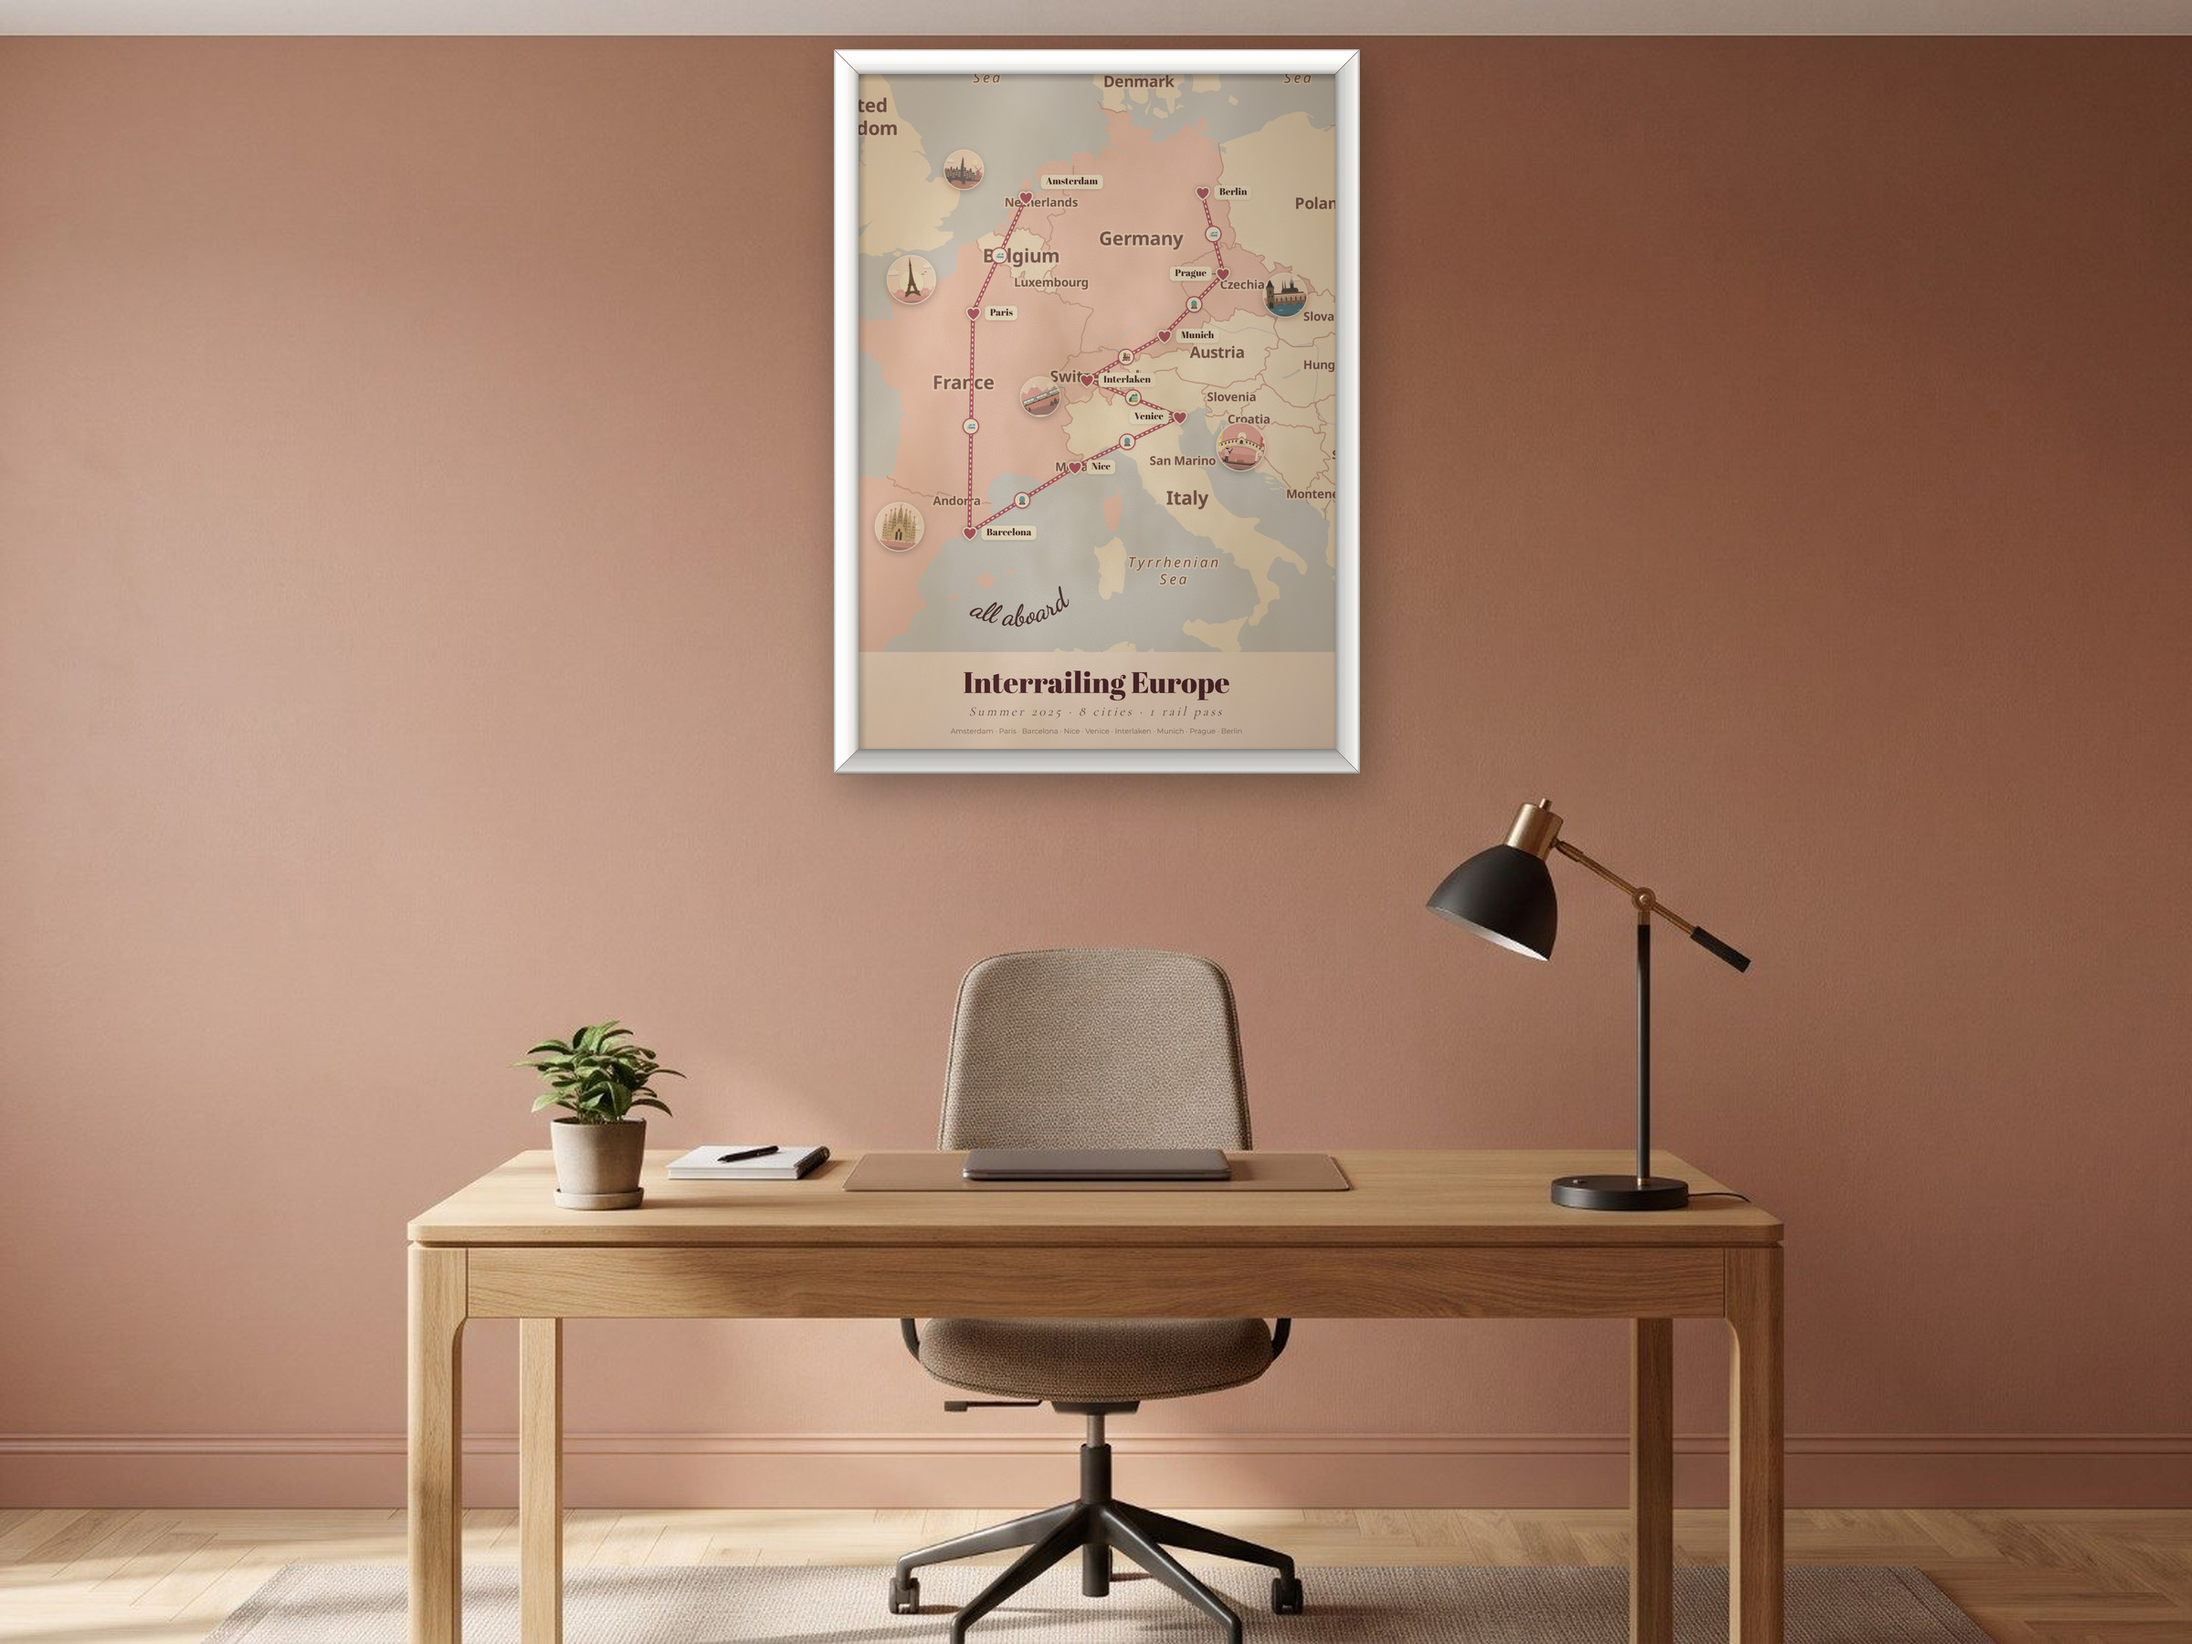
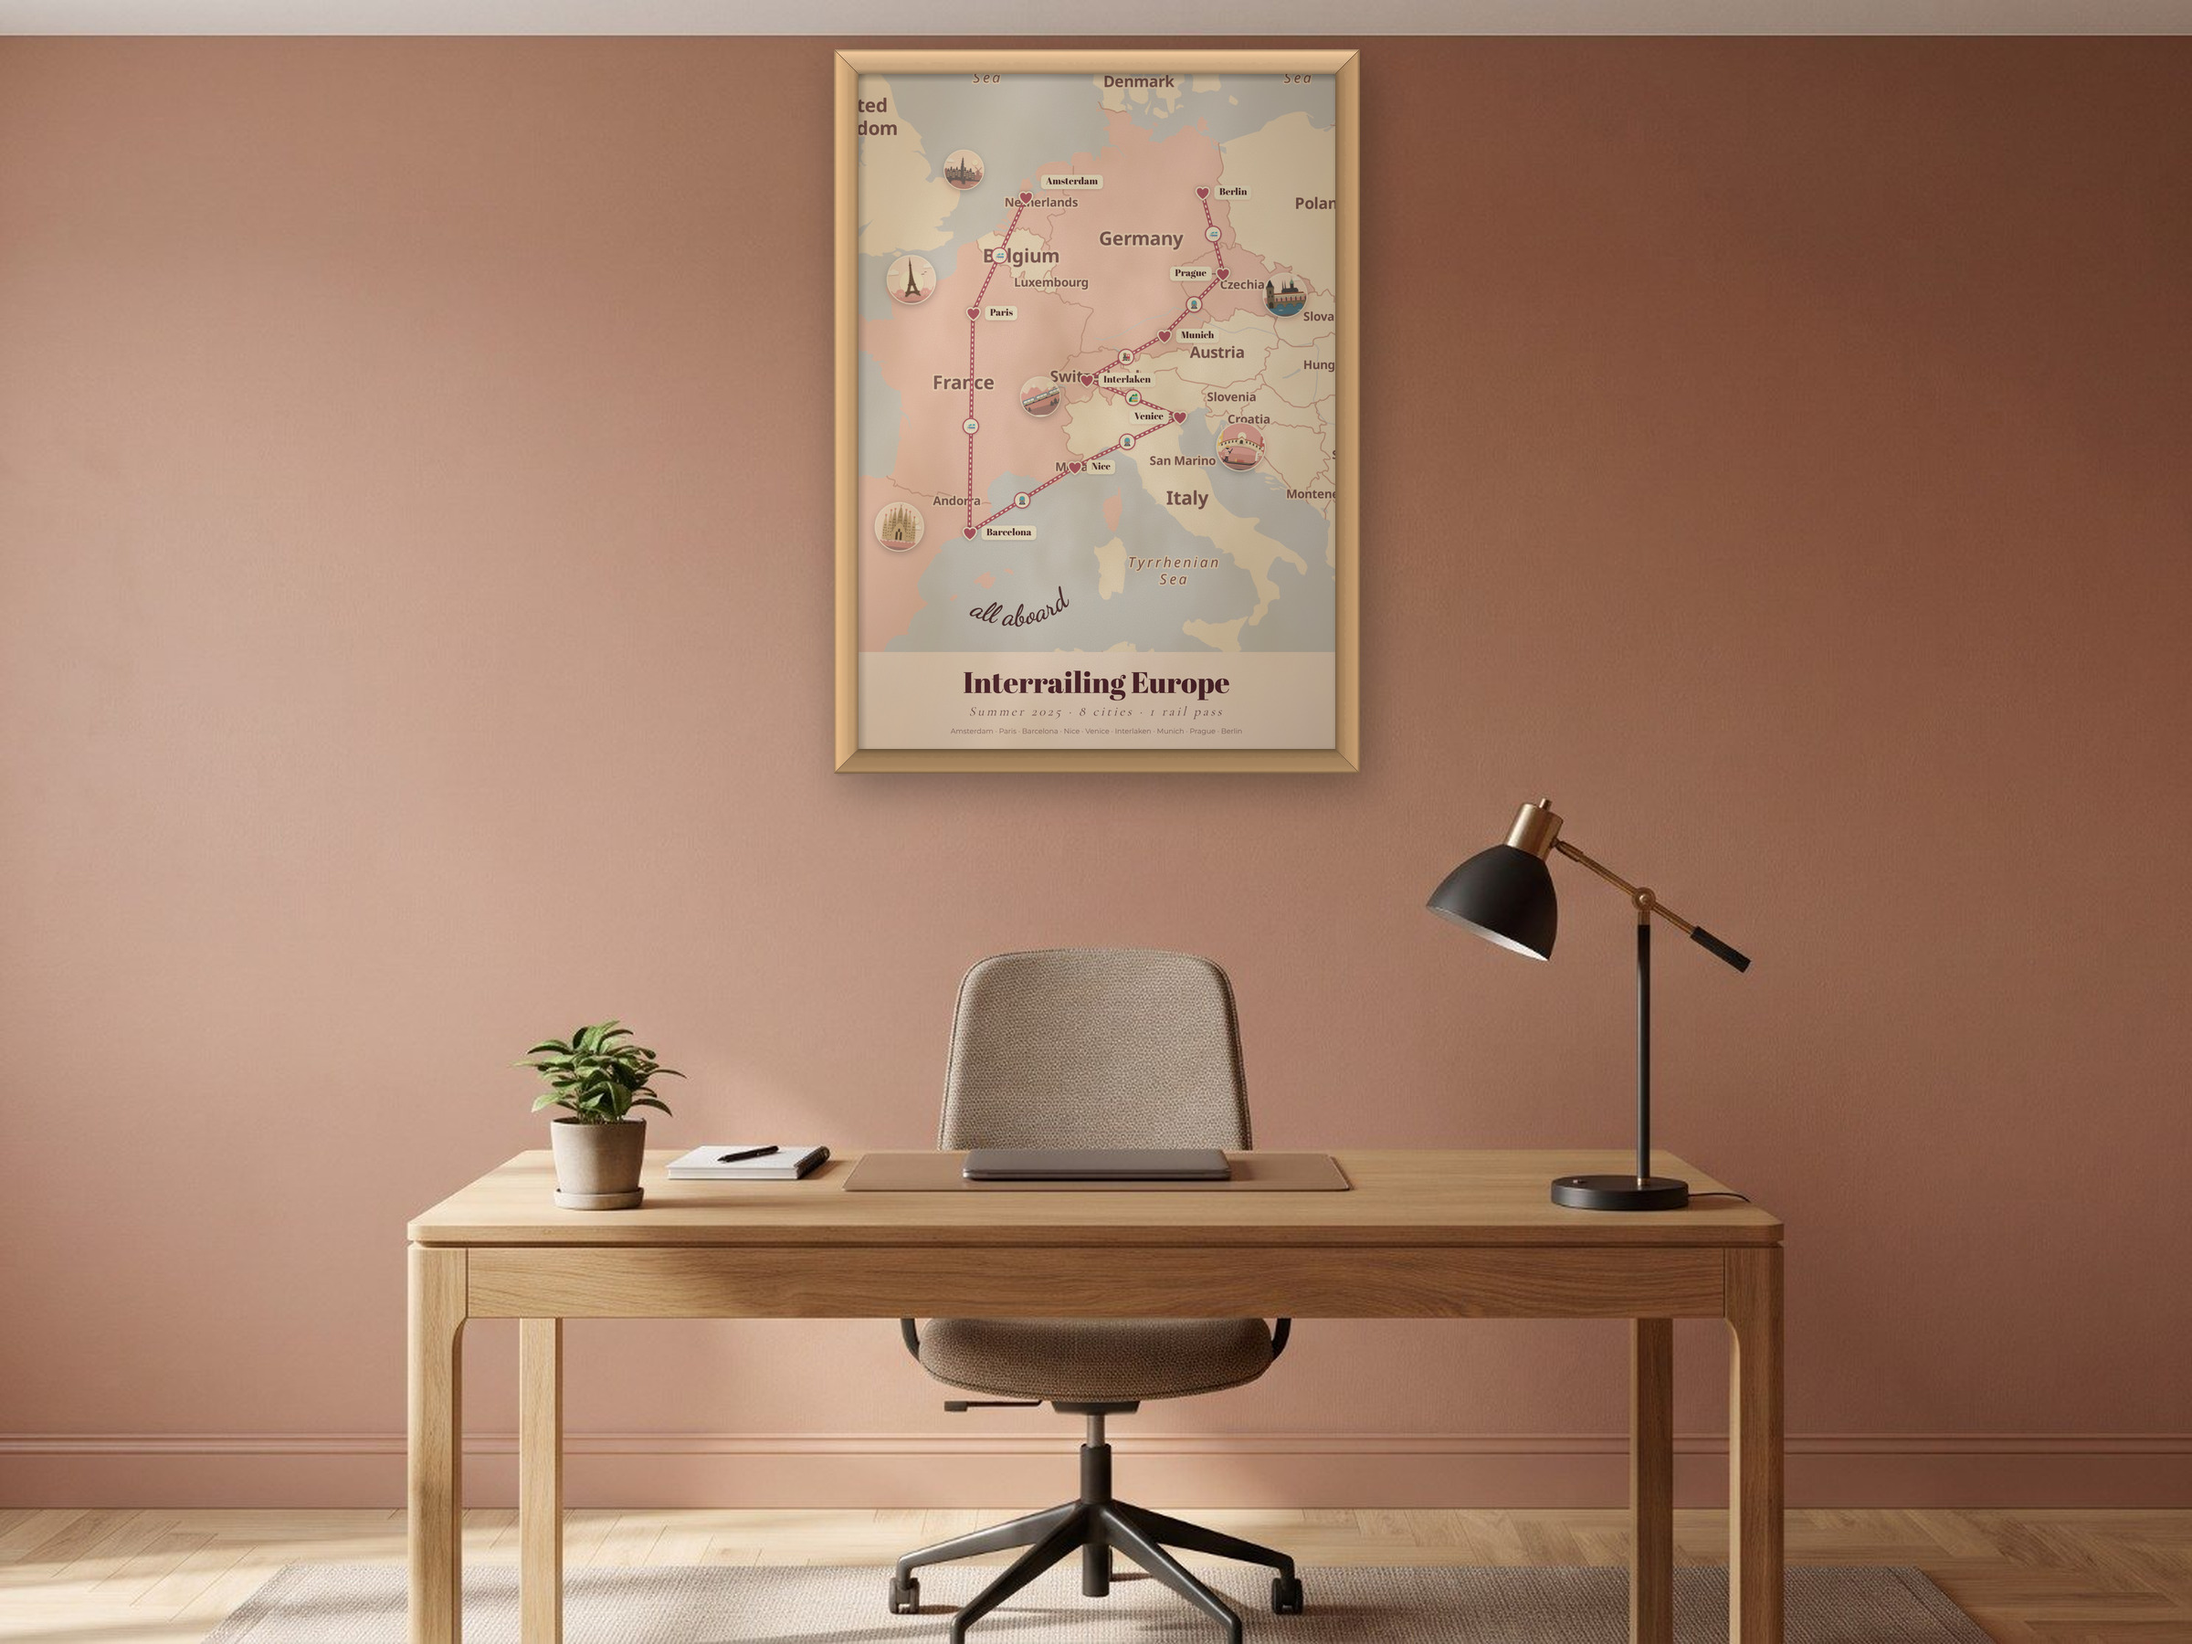
Listing photos: Sri Lanka in black frame with white mount, Interrail in natural wood, South America on textured etching paper
Claude-Session: https://claude.ai/code/session_018qUnfP1DM5ziUsd6x2NReK

Changed region(s): [[0.375, 0.0311, 0.625, 0.4978]]

diff --git a/design/mockups/trips.ts b/design/mockups/trips.ts
@@ -115,10 +115,11 @@ export const TRIPS: Trip[] = [
   {
     slug: "sri-lanka",
     view: { zoom: -0.05 },
-    frame: "white",
+    frame: "black",
     room: "bedroom-sage",
     design: {
       preset: "terrain",
+      mount: "white",
       title: "Sri Lanka",
       subtitle: "By tuk-tuk, train & car · March 2026",
       font: "cormorant",
@@ -192,6 +193,7 @@ export const TRIPS: Trip[] = [
     room: "living-oak",
     design: {
       preset: "topo",
+      paper: "hge",
       title: "South America",
       subtitle: "Lima to Rio · overland, mostly",
       font: "josefin",
@@ -229,7 +231,7 @@ export const TRIPS: Trip[] = [
     slug: "interrail-europe",
     labels: { Amsterdam: [0.5, -3.2] },
     view: { zoom: -0.22 },
-    frame: "white",
+    frame: "oak",
     room: "office-terracotta",
     design: {
       preset: "blush",

diff --git a/design/mockups/compose.py b/design/mockups/compose.py
@@ -34,8 +34,24 @@ def shade(rgb, k):
     a = np.array(rgb, float)
     return tuple(int(v) for v in (a + (255 - a) * k if k > 0 else a * (1 + k)))
 
+def paper_texture(w, h, ppc, seed=3):
+    """Embossed grain of a textured etching paper, lit from the top left (1.0 = flat)."""
+    rng = np.random.default_rng(seed)
+    acc = np.zeros((h, w))
+    for scale, amp in [(0.05, 1.0), (0.1, 0.7), (0.25, 0.3)]:
+        sw, sh = max(4, int(w / (scale * ppc))), max(4, int(h / (scale * ppc)))
+        n = Image.fromarray((rng.random((sh, sw)) * 255).astype(np.uint8)).resize((w, h), Image.BICUBIC)
+        acc += amp * (np.array(n, float) / 255 - 0.5)
+    gy, gx = np.gradient(acc)
+    light = -(gx + gy) * 1.4
+    return 1 + np.clip(light, -0.03, 0.03)
+
 def compose(slug, frame, room_id):
     room = ROOMS[room_id]
+    design = json.loads((ROOT / f"design/mockups/designs/{slug}.json").read_text())
+    frame = design.get("frame", frame)
+    mount = design.get("mount", "none") if frame != "none" else "none"
+    paper = design.get("paper", "ema")
     poster = Image.open(RENDERS / f"{slug}.png").convert("RGB")
     bg = Image.open(ROOT / f"public/rooms/{room_id}.jpg").convert("RGB")
     W0, H0 = bg.size
@@ -66,6 +82,14 @@ def compose(slug, frame, room_id):
     L, T = cx - fw / 2, bottom - fh
     L, T, fw, fh, mould = (round(v) for v in (L, T, fw, fh, mould))
     pw, ph = fw - 2 * mould, fh - 2 * mould
+    # A mount: a white card border inside the frame; the print sits in its window.
+    mw = round(5 * ppc) if mount != "none" else 0
+    if mw:
+        ph_art = ph - 2 * mw
+        pw_art = round(ph_art / aspect)
+        mwx = (pw - pw_art) // 2
+    else:
+        pw_art, ph_art, mwx = pw, ph, 0
 
     canvas = bg.convert("RGBA")
     # Wall shadow: light from the left, so it falls down and to the right.
@@ -82,20 +106,43 @@ def compose(slug, frame, room_id):
     canvas = Image.alpha_composite(canvas, shadow)
 
     # The print, with the room's light: brighter towards the window (left), a touch warmer.
-    art = poster.resize((pw, ph), Image.LANCZOS)
+    art = poster.resize((pw_art, ph_art), Image.LANCZOS)
     a = np.array(art).astype(float)
-    gx = np.linspace(1.02, 0.93, pw)[None, :, None]
-    gy = np.linspace(1.0, 0.97, ph)[:, None, None]
+    if paper == "hge":
+        # Textured etching: soft warm white, ink a little muted, visible embossed grain.
+        a = a * 0.95 + np.array([250, 246, 236]) * 0.05
+        a = a * paper_texture(pw_art, ph_art, ppc)[..., None]
+    if mw:
+        # Lay the print into the mount: card colour, a bright bevelled window edge, a hairline shadow.
+        card = np.ones((ph, pw, 3)) * np.array([249, 248, 244], float)
+        top, left = mw, mwx
+        card[top:top + ph_art, left:left + pw_art] = a
+        bev = max(2, round(0.28 * ppc))
+        for (y0, y1, x0, x1, tone) in [
+            (top - bev, top, left - bev, left + pw_art + bev, 0.97),  # top bevel, in shade
+            (top + ph_art, top + ph_art + bev, left - bev, left + pw_art + bev, 1.03),  # bottom bevel, catches light
+            (top, top + ph_art, left - bev, left, 0.99),  # left
+            (top, top + ph_art, left + pw_art, left + pw_art + bev, 1.02),  # right
+        ]:
+            card[y0:y1, x0:x1] = np.clip(np.array([252, 251, 248]) * tone, 0, 255)
+        card[top:top + 1, left:left + pw_art] *= 0.82
+        card[top:top + ph_art, left:left + 1] *= 0.86
+        a = card
+        pw_full, ph_full = pw, ph
+    else:
+        pw_full, ph_full = pw_art, ph_art
+    gx = np.linspace(1.02, 0.93, pw_full)[None, :, None]
+    gy = np.linspace(1.0, 0.97, ph_full)[:, None, None]
     a = a * gx * gy * np.array([1.0, 0.99, 0.965])
     if frame != "none":
         # The frame's lip casts a shadow onto the print along the top and left edges.
         lip = 0.9 * ppc
-        yy, xx = np.mgrid[0:ph, 0:pw]
+        yy, xx = np.mgrid[0:ph_full, 0:pw_full]
         dark = np.clip(1 - yy / lip, 0, 1) * 0.32 + np.clip(1 - xx / lip, 0, 1) * 0.22
-        dark += np.clip(1 - (pw - xx) / (lip * 0.4), 0, 1) * 0.08 + np.clip(1 - (ph - yy) / (lip * 0.4), 0, 1) * 0.06
+        dark += np.clip(1 - (pw_full - xx) / (lip * 0.4), 0, 1) * 0.08 + np.clip(1 - (ph_full - yy) / (lip * 0.4), 0, 1) * 0.06
         a = a * (1 - np.clip(dark, 0, 0.45))[..., None]
         # Glazing: a faint diagonal reflection.
-        diag = (xx / pw * 0.8 + yy / ph * 0.4)
+        diag = (xx / pw_full * 0.8 + yy / ph_full * 0.4)
         sheen = np.exp(-((diag - 0.28) ** 2) / 0.006) * 14 + np.exp(-((diag - 0.62) ** 2) / 0.002) * 7
         a = a + sheen[..., None]
     art = Image.fromarray(np.clip(a, 0, 255).astype(np.uint8))
@@ -138,7 +185,7 @@ def compose(slug, frame, room_id):
         canvas = Image.alpha_composite(canvas, fr)
     else:
         # Unframed print: a hairline paper edge.
-        ImageDraw.Draw(canvas).rectangle((L, T, L + fw - 1, T + fh - 1), outline=(0, 0, 0, 40), width=1)
+        ImageDraw.Draw(canvas).rectangle((L, T, L + fw - 1, T + fh - 1), outline=(0, 0, 0, 16), width=1)
 
     out = OUT / f"{slug}.jpg"
     canvas.convert("RGB").save(out, quality=92, subsampling=0)
